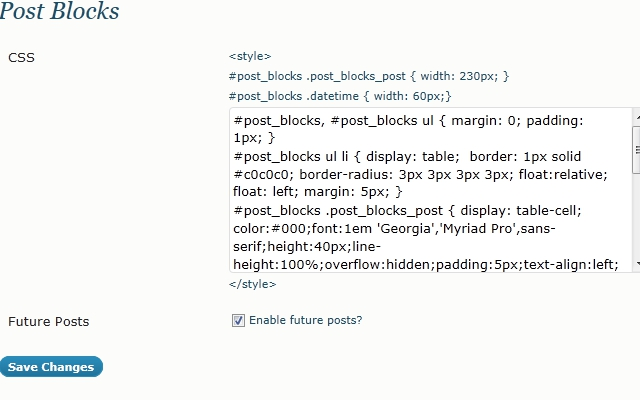
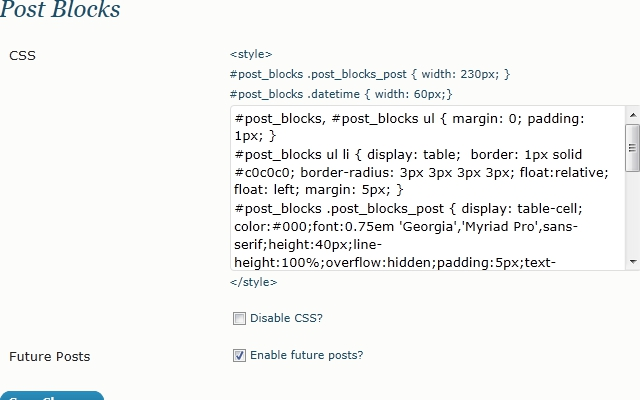
v0.0.4 release NEW: Added ability to turn off plugin CSS to the admin menu
git-svn-id: https://plugins.svn.wordpress.org/post-blocks/trunk@443643 b8457f37-d9ea-0310-8a92-e5e31aec5664

diff --git a/post-blocks.php b/post-blocks.php
@@ -40,7 +40,7 @@ function post_blocks_menu() {
 
 function post_blocks_options() {
   $pb_options = get_option('widget_post_blocks');
-  $pb_options_to_update = array('post_blocks_css','post_blocks_future_posts')
+  $pb_options_to_update = array('post_blocks_css','post_blocks_future_posts','post_blocks_remove_css')
  ?>
 <div class="wrap">
   <h2>Post Blocks</h2>
@@ -49,7 +49,7 @@ function post_blocks_options() {
   <?php wp_nonce_field('update-options'); ?>
   <table class="form-table">
    <tr valign="top">
-    <th scope="row">CSS</th>
+    <th scope="row" rowspan="2">CSS</th>
     <td>&lt;style&gt;<br>
     #post_blocks .post_blocks_post { width: <?php echo absint($pb_options['pwidth']); ?>px; }<br>
     #post_blocks .datetime { width: <?php echo absint($pb_options['dwidth']); ?>px;}<br>
@@ -61,6 +61,11 @@ function post_blocks_options() {
 #post_blocks .post_blocks_post a:hover { text-decoration: underline; }
 #post_blocks .datetime { display: table-cell; background: #c0c0c0; color: #919191; padding: 5px; margin: 0 !important; font:2em 'Georgia','Myriad Pro',sans-serif; text-align:center; text-shadow: 1px 1px #D3D3D3, -1px -1px #6E6E6E;}
 #post_blocks .monthday, #post_blocks .year{ display: block; }"; ?></textarea>&lt;/style&gt;</td>
+   </tr>
+   <tr valign="top">
+    <td>
+    <input type="checkbox" value="y" id="post_blocks_remove_css" name="post_blocks_remove_css"<?php echo get_option("post_blocks_remove_css") ? " checked='checked' " : " " ?>/><label for="post_blocks_remove_css">Disable CSS?</label>
+    </td>
    </tr>
    <tr valign="top">
     <th scope="row">Future Posts</th>

diff --git a/widget.php b/widget.php
@@ -43,9 +43,8 @@ function widget_post_blocks_register() {
 	function widget_post_blocks_style() {
 		$pb_plugin_dir = '/wp-content/plugins';
 		$pb_options = get_option('widget_post_blocks');
-		if ( defined( 'PLUGINDIR' ) )
-			$pb_plugin_dir = '/' . PLUGINDIR;
-
+		if ( defined( 'PLUGINDIR' ) ) $pb_plugin_dir = '/' . PLUGINDIR;
+		if(!bool_from_yn(get_option("post_blocks_remove_css"))){
 		?>
 <style type="text/css">
 #post_blocks .post_blocks_post { width: <?php echo absint($pb_options['pwidth']); ?>px; }
@@ -60,6 +59,7 @@ function widget_post_blocks_register() {
 #post_blocks .monthday, #post_blocks .year{ display: block; }"; ?>
 </style>
 		<?php
+		}
 	}
 
 	function widget_post_blocks_control() {
